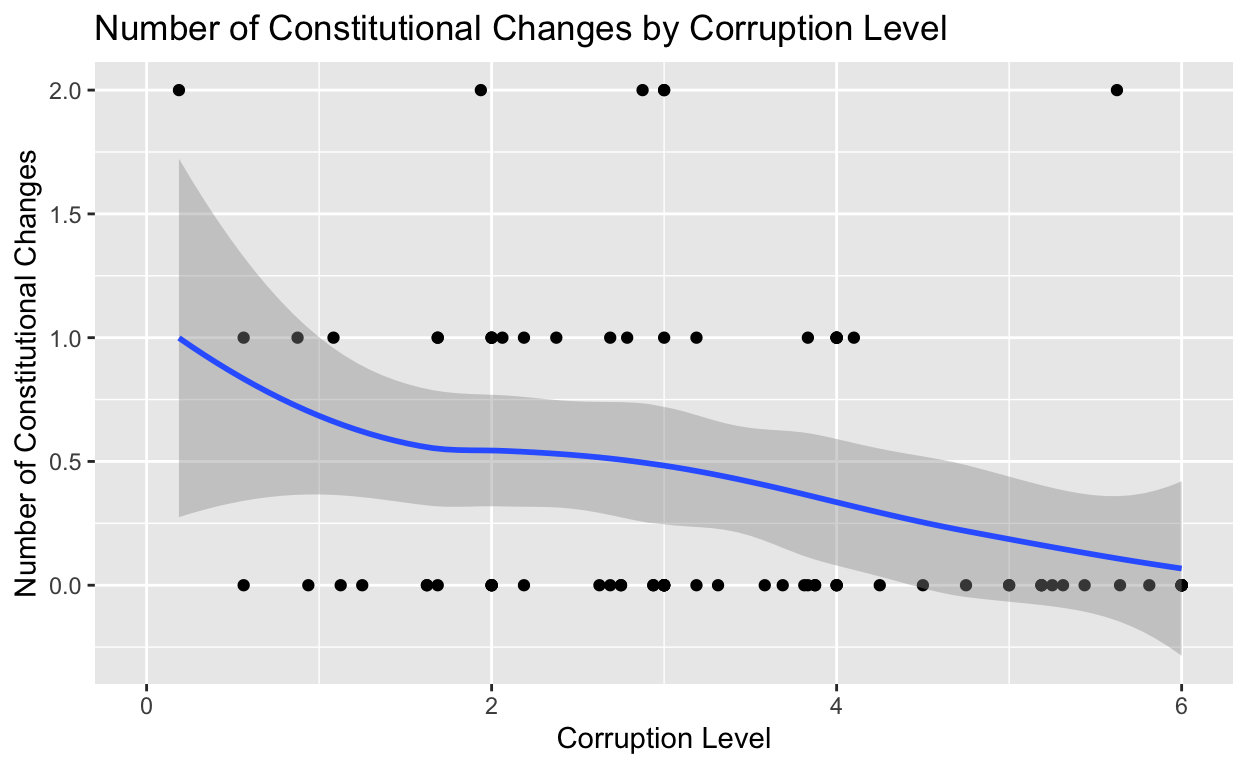
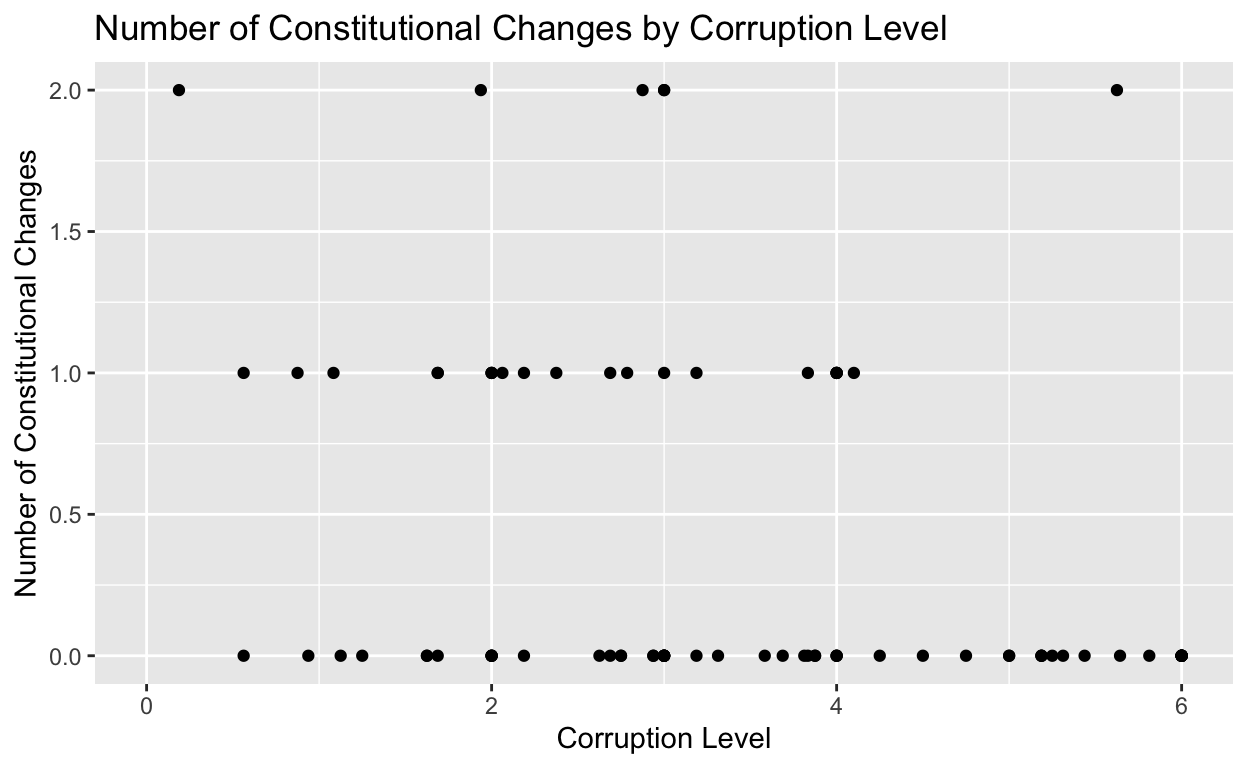
milestone 4

diff --git a/index.html b/index.html
@@ -115,7 +115,7 @@ code span.wa { color: #5e5e5e; font-style: italic; } /* Warning */
   <!--/radix_placeholder_rmarkdown_metadata-->
   
   <script type="text/json" id="radix-resource-manifest">
-  {"type":"character","attributes":{},"value":["data(final project gov 50)/violence.numbers","data(final project gov 50)/Violence/violence-codebook.txt","data(final project gov 50)/Violence/violence.csv","index_files/anchor-4.2.2/anchor.min.js","index_files/bowser-1.9.3/bowser.min.js","index_files/distill-2.2.21/template.v2.js","index_files/figure-html5/unnamed-chunk-2-1.png","index_files/header-attrs-2.17/header-attrs.js","index_files/header-attrs-2.24/header-attrs.js","index_files/jquery-3.6.0/jquery-3.6.0.js","index_files/jquery-3.6.0/jquery-3.6.0.min.js","index_files/jquery-3.6.0/jquery-3.6.0.min.map","index_files/popper-2.6.0/popper.min.js","index_files/tippy-6.2.7/tippy-bundle.umd.min.js","index_files/tippy-6.2.7/tippy-light-border.css","index_files/tippy-6.2.7/tippy.css","index_files/tippy-6.2.7/tippy.umd.min.js","index_files/webcomponents-2.0.0/webcomponents.js"]}
+  {"type":"character","attributes":{},"value":["data(final project gov 50)/violence.numbers","data(final project gov 50)/Violence/violence-codebook.txt","data(final project gov 50)/Violence/violence.csv","index_files/anchor-4.2.2/anchor.min.js","index_files/bowser-1.9.3/bowser.min.js","index_files/distill-2.2.21/template.v2.js","index_files/figure-html5/unnamed-chunk-2-1.png","index_files/figure-html5/unnamed-chunk-3-1.png","index_files/header-attrs-2.17/header-attrs.js","index_files/header-attrs-2.24/header-attrs.js","index_files/jquery-3.6.0/jquery-3.6.0.js","index_files/jquery-3.6.0/jquery-3.6.0.min.js","index_files/jquery-3.6.0/jquery-3.6.0.min.map","index_files/popper-2.6.0/popper.min.js","index_files/tippy-6.2.7/tippy-bundle.umd.min.js","index_files/tippy-6.2.7/tippy-light-border.css","index_files/tippy-6.2.7/tippy.css","index_files/tippy-6.2.7/tippy.umd.min.js","index_files/webcomponents-2.0.0/webcomponents.js"]}
   </script>
   <!--radix_placeholder_navigation_in_header-->
   <!--/radix_placeholder_navigation_in_header-->
@@ -1570,13 +1570,38 @@ code span.wa { color: #5e5e5e; font-style: italic; } /* Warning */
 <div class="sourceCode">
 <pre class="sourceCode r"><code class="sourceCode r"><span><span class='va'>violence</span> <span class='op'>&lt;-</span> <span class='fu'><a href='https://readr.tidyverse.org/reference/read_delim.html'>read_csv</a></span><span class='op'>(</span><span class='st'>"data(final project gov 50)/Violence/violence.csv"</span><span class='op'>)</span></span>
 <span></span>
-<span><span class='va'>violence</span> <span class='op'>|&gt;</span></span>
-<span>  <span class='fu'><a href='https://dplyr.tidyverse.org/reference/mutate.html'>mutate</a></span><span class='op'>(</span>constch_overall <span class='op'>=</span> <span class='va'>constchg60</span> <span class='op'>+</span> <span class='va'>constchg70</span> <span class='op'>+</span> <span class='va'>constchg80</span><span class='op'>)</span> <span class='op'>|&gt;</span></span>
-<span><span class='fu'><a href='https://ggplot2.tidyverse.org/reference/ggplot.html'>ggplot</a></span><span class='op'>(</span><span class='va'>violence</span>, mapping <span class='op'>=</span> <span class='fu'><a href='https://ggplot2.tidyverse.org/reference/aes.html'>aes</a></span><span class='op'>(</span>x <span class='op'>=</span> <span class='va'>corrupti</span>, y <span class='op'>=</span> <span class='va'>constch_overall</span><span class='op'>)</span><span class='op'>)</span> <span class='op'>+</span> <span class='fu'><a href='https://ggplot2.tidyverse.org/reference/geom_point.html'>geom_point</a></span><span class='op'>(</span><span class='op'>)</span> <span class='op'>+</span> <span class='fu'><a href='https://ggplot2.tidyverse.org/reference/geom_smooth.html'>geom_smooth</a></span><span class='op'>(</span><span class='op'>)</span> <span class='op'>+</span> <span class='fu'><a href='https://ggplot2.tidyverse.org/reference/labs.html'>labs</a></span> <span class='op'>(</span>title <span class='op'>=</span> <span class='st'>"Number of Constitutional Changes by Corruption Level"</span>, y <span class='op'>=</span> <span class='st'>"Number of Constitutional Changes"</span>, x <span class='op'>=</span> <span class='st'>"Corruption Level"</span><span class='op'>)</span> </span></code></pre>
+<span><span class='va'>violence</span> <span class='op'>&lt;-</span> <span class='va'>violence</span> <span class='op'>|&gt;</span></span>
+<span>  <span class='fu'><a href='https://dplyr.tidyverse.org/reference/mutate.html'>mutate</a></span><span class='op'>(</span>constch_overall <span class='op'>=</span> <span class='va'>constchg60</span> <span class='op'>+</span> <span class='va'>constchg70</span> <span class='op'>+</span> <span class='va'>constchg80</span><span class='op'>)</span> </span>
+<span></span>
+<span><span class='va'>violence</span><span class='op'>|&gt;</span></span>
+<span><span class='fu'><a href='https://ggplot2.tidyverse.org/reference/ggplot.html'>ggplot</a></span><span class='op'>(</span><span class='va'>violence</span>, mapping <span class='op'>=</span> <span class='fu'><a href='https://ggplot2.tidyverse.org/reference/aes.html'>aes</a></span><span class='op'>(</span>x <span class='op'>=</span> <span class='va'>corrupti</span>, y <span class='op'>=</span> <span class='va'>constch_overall</span><span class='op'>)</span><span class='op'>)</span> <span class='op'>+</span> <span class='fu'><a href='https://ggplot2.tidyverse.org/reference/geom_point.html'>geom_point</a></span><span class='op'>(</span><span class='op'>)</span> <span class='op'>+</span> <span class='fu'><a href='https://ggplot2.tidyverse.org/reference/labs.html'>labs</a></span> <span class='op'>(</span>title <span class='op'>=</span> <span class='st'>"Number of Constitutional Changes by Corruption Level"</span>, y <span class='op'>=</span> <span class='st'>"Number of Constitutional Changes"</span>, x <span class='op'>=</span> <span class='st'>"Corruption Level"</span><span class='op'>)</span> </span></code></pre>
 </div>
 <p><img src="index_files/figure-html5/unnamed-chunk-2-1.png" width="624" /></p>
 </div>
-<div class="sourceCode" id="cb1"><pre class="sourceCode r distill-force-highlighting-css"><code class="sourceCode r"></code></pre></div>
+<h2 id="results-from-first-analysis">Results From First Analysis</h2>
+<p>By conducting this analysis, my aim was to further investigate the relationship between corruption levels and frequencies of constitutional change globally. Through the linear regression model, we can observe that each unit increase in corruption is associated with a decrease of 0.1214 in the number of major constitutional changes. Additionally, the intercept relays that for a country with a corruption level of 0, the expected number of major constitutional changes would be 0.8062.
+Thus, we can conclude that the correlation between corruption levels and frequencies of constitutional change is negative, which is shown by the estimated line of best fit on the scatterplot below.</p>
+<div class="layout-chunk" data-layout="l-body">
+<div class="sourceCode">
+<pre class="sourceCode r"><code class="sourceCode r"><span><span class='va'>fit</span> <span class='op'>&lt;-</span> <span class='fu'><a href='https://rdrr.io/r/stats/lm.html'>lm</a></span><span class='op'>(</span><span class='va'>constch_overall</span> <span class='op'>~</span> <span class='va'>corrupti</span>, data <span class='op'>=</span> <span class='va'>violence</span><span class='op'>)</span></span>
+<span></span>
+<span><span class='va'>fit</span></span></code></pre>
+</div>
+<pre><code>
+Call:
+lm(formula = constch_overall ~ corrupti, data = violence)
+
+Coefficients:
+(Intercept)     corrupti  
+     0.8062      -0.1214  </code></pre>
+<div class="sourceCode">
+<pre class="sourceCode r"><code class="sourceCode r"><span><span class='va'>fit_visual</span> <span class='op'>&lt;-</span> <span class='va'>violence</span> <span class='op'>|&gt;</span> <span class='fu'><a href='https://ggplot2.tidyverse.org/reference/ggplot.html'>ggplot</a></span><span class='op'>(</span>mapping <span class='op'>=</span> <span class='fu'><a href='https://ggplot2.tidyverse.org/reference/aes.html'>aes</a></span><span class='op'>(</span>x <span class='op'>=</span> <span class='va'>corrupti</span>, y <span class='op'>=</span> <span class='va'>constch_overall</span><span class='op'>)</span><span class='op'>)</span> <span class='op'>+</span> <span class='fu'><a href='https://ggplot2.tidyverse.org/reference/geom_point.html'>geom_point</a></span><span class='op'>(</span><span class='op'>)</span> <span class='op'>+</span> <span class='fu'><a href='https://ggplot2.tidyverse.org/reference/geom_smooth.html'>geom_smooth</a></span><span class='op'>(</span>method <span class='op'>=</span> <span class='va'>lm</span>, colour <span class='op'>=</span> <span class='st'>"brown"</span><span class='op'>)</span> <span class='op'>+</span> <span class='fu'><a href='https://ggplot2.tidyverse.org/reference/labs.html'>labs</a></span><span class='op'>(</span>title <span class='op'>=</span> <span class='st'>"Linear Regression on Corruption and Constitutional Changes"</span>, y <span class='op'>=</span> <span class='st'>"Number of Constitutional Changes"</span>, x <span class='op'>=</span> <span class='st'>"Corruption Level"</span><span class='op'>)</span></span>
+<span></span>
+<span><span class='va'>fit_visual</span></span></code></pre>
+</div>
+<p><img src="index_files/figure-html5/unnamed-chunk-3-1.png" width="624" /></p>
+</div>
+<div class="sourceCode" id="cb2"><pre class="sourceCode r distill-force-highlighting-css"><code class="sourceCode r"></code></pre></div>
 <!--radix_placeholder_article_footer-->
 <!--/radix_placeholder_article_footer-->
 </div>
